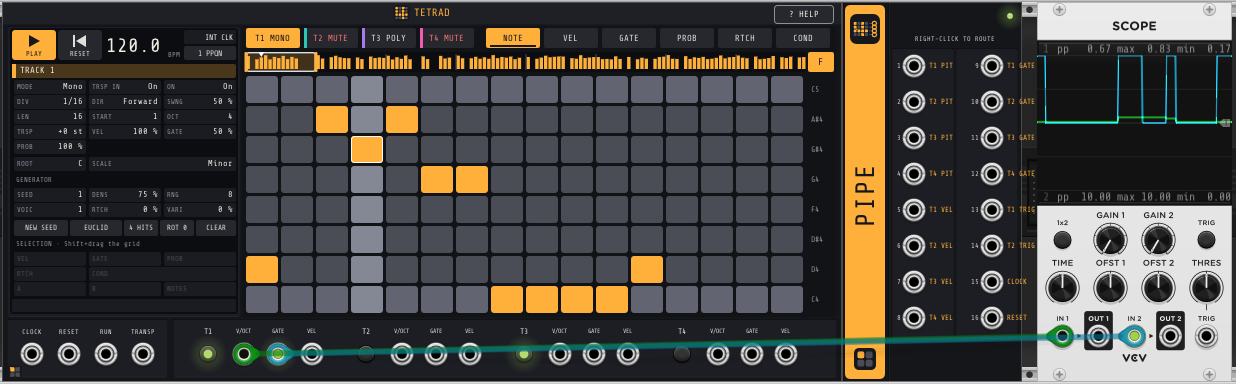
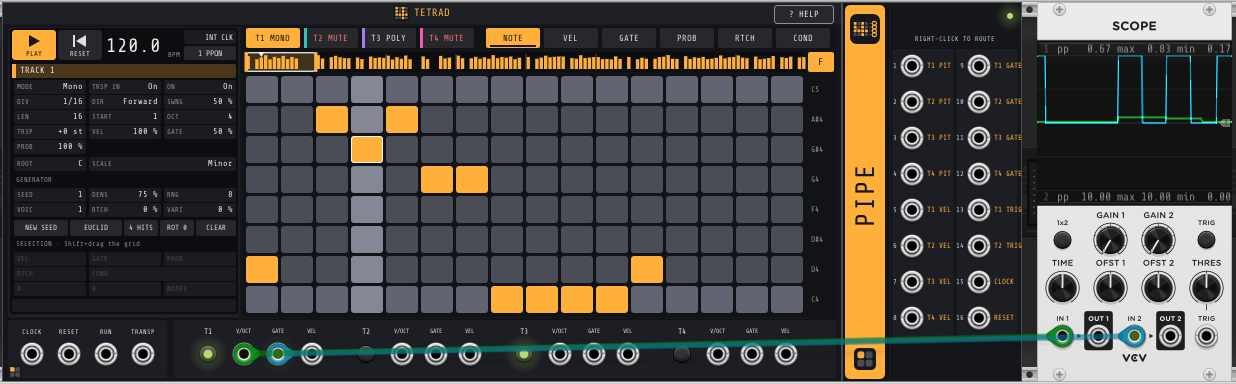
Pipe: jack columns placed inside the width left of the name band
Both columns, their numbers and labels now fit the 134 px right of the
band instead of running off the panel edge.

Changed region(s): [[0.7071, 0.125, 0.8301, 0.875], [0.9531, 0.2812, 0.9838, 0.3438], [0.2152, 0.9062, 0.246, 0.9375]]

diff --git a/src/Pipe.cpp b/src/Pipe.cpp
@@ -176,7 +176,7 @@ const NVGcolor kLabel = nvgRGB(201, 206, 214);
 const NVGcolor kRoute = nvgRGB(255, 176, 59);   // brand amber
 
 // Panel layout (Rack pixels, 12 HP = 180 px wide): outputs 1-8 left, 9-16 right.
-constexpr float kLeftX = 26 + kStripWidth, kRightX = 116 + kStripWidth - 12, kRowY = 64, kRowStep = 36;
+constexpr float kLeftX = kStripWidth + 24, kRightX = kStripWidth + 24 + 67, kRowY = 64, kRowStep = 36;
 Vec jackPos(int i) { return Vec(i < 8 ? kLeftX : kRightX, kRowY + (i % 8) * kRowStep); }
 
 // Right-click menu of an output: signal, track and row.
@@ -258,7 +258,7 @@ struct StaticLabels : TransparentWidget {
         nvgFontSize(vg, 8.f);
         for (int i = 0; i < pipe::kOutputs; ++i) {
             const Vec p = jackPos(i);
-            nvgText(vg, p.x - 13, p.y, string::f("%d", i + 1).c_str(), nullptr);
+            nvgText(vg, p.x - 15, p.y, string::f("%d", i + 1).c_str(), nullptr);
         }
     }
 };

diff --git a/CHANGELOG.md b/CHANGELOG.md
@@ -1,5 +1,10 @@
 # Changelog
 
+## 2.6.6
+
+- Pipe: the two jack columns are placed inside the width left of the name band, with room for
+  the numbers and labels.
+
 ## 2.6.5
 
 - Matte aluminium relief on both panels (faint gradient, recessed zones). The Pipe gets the
